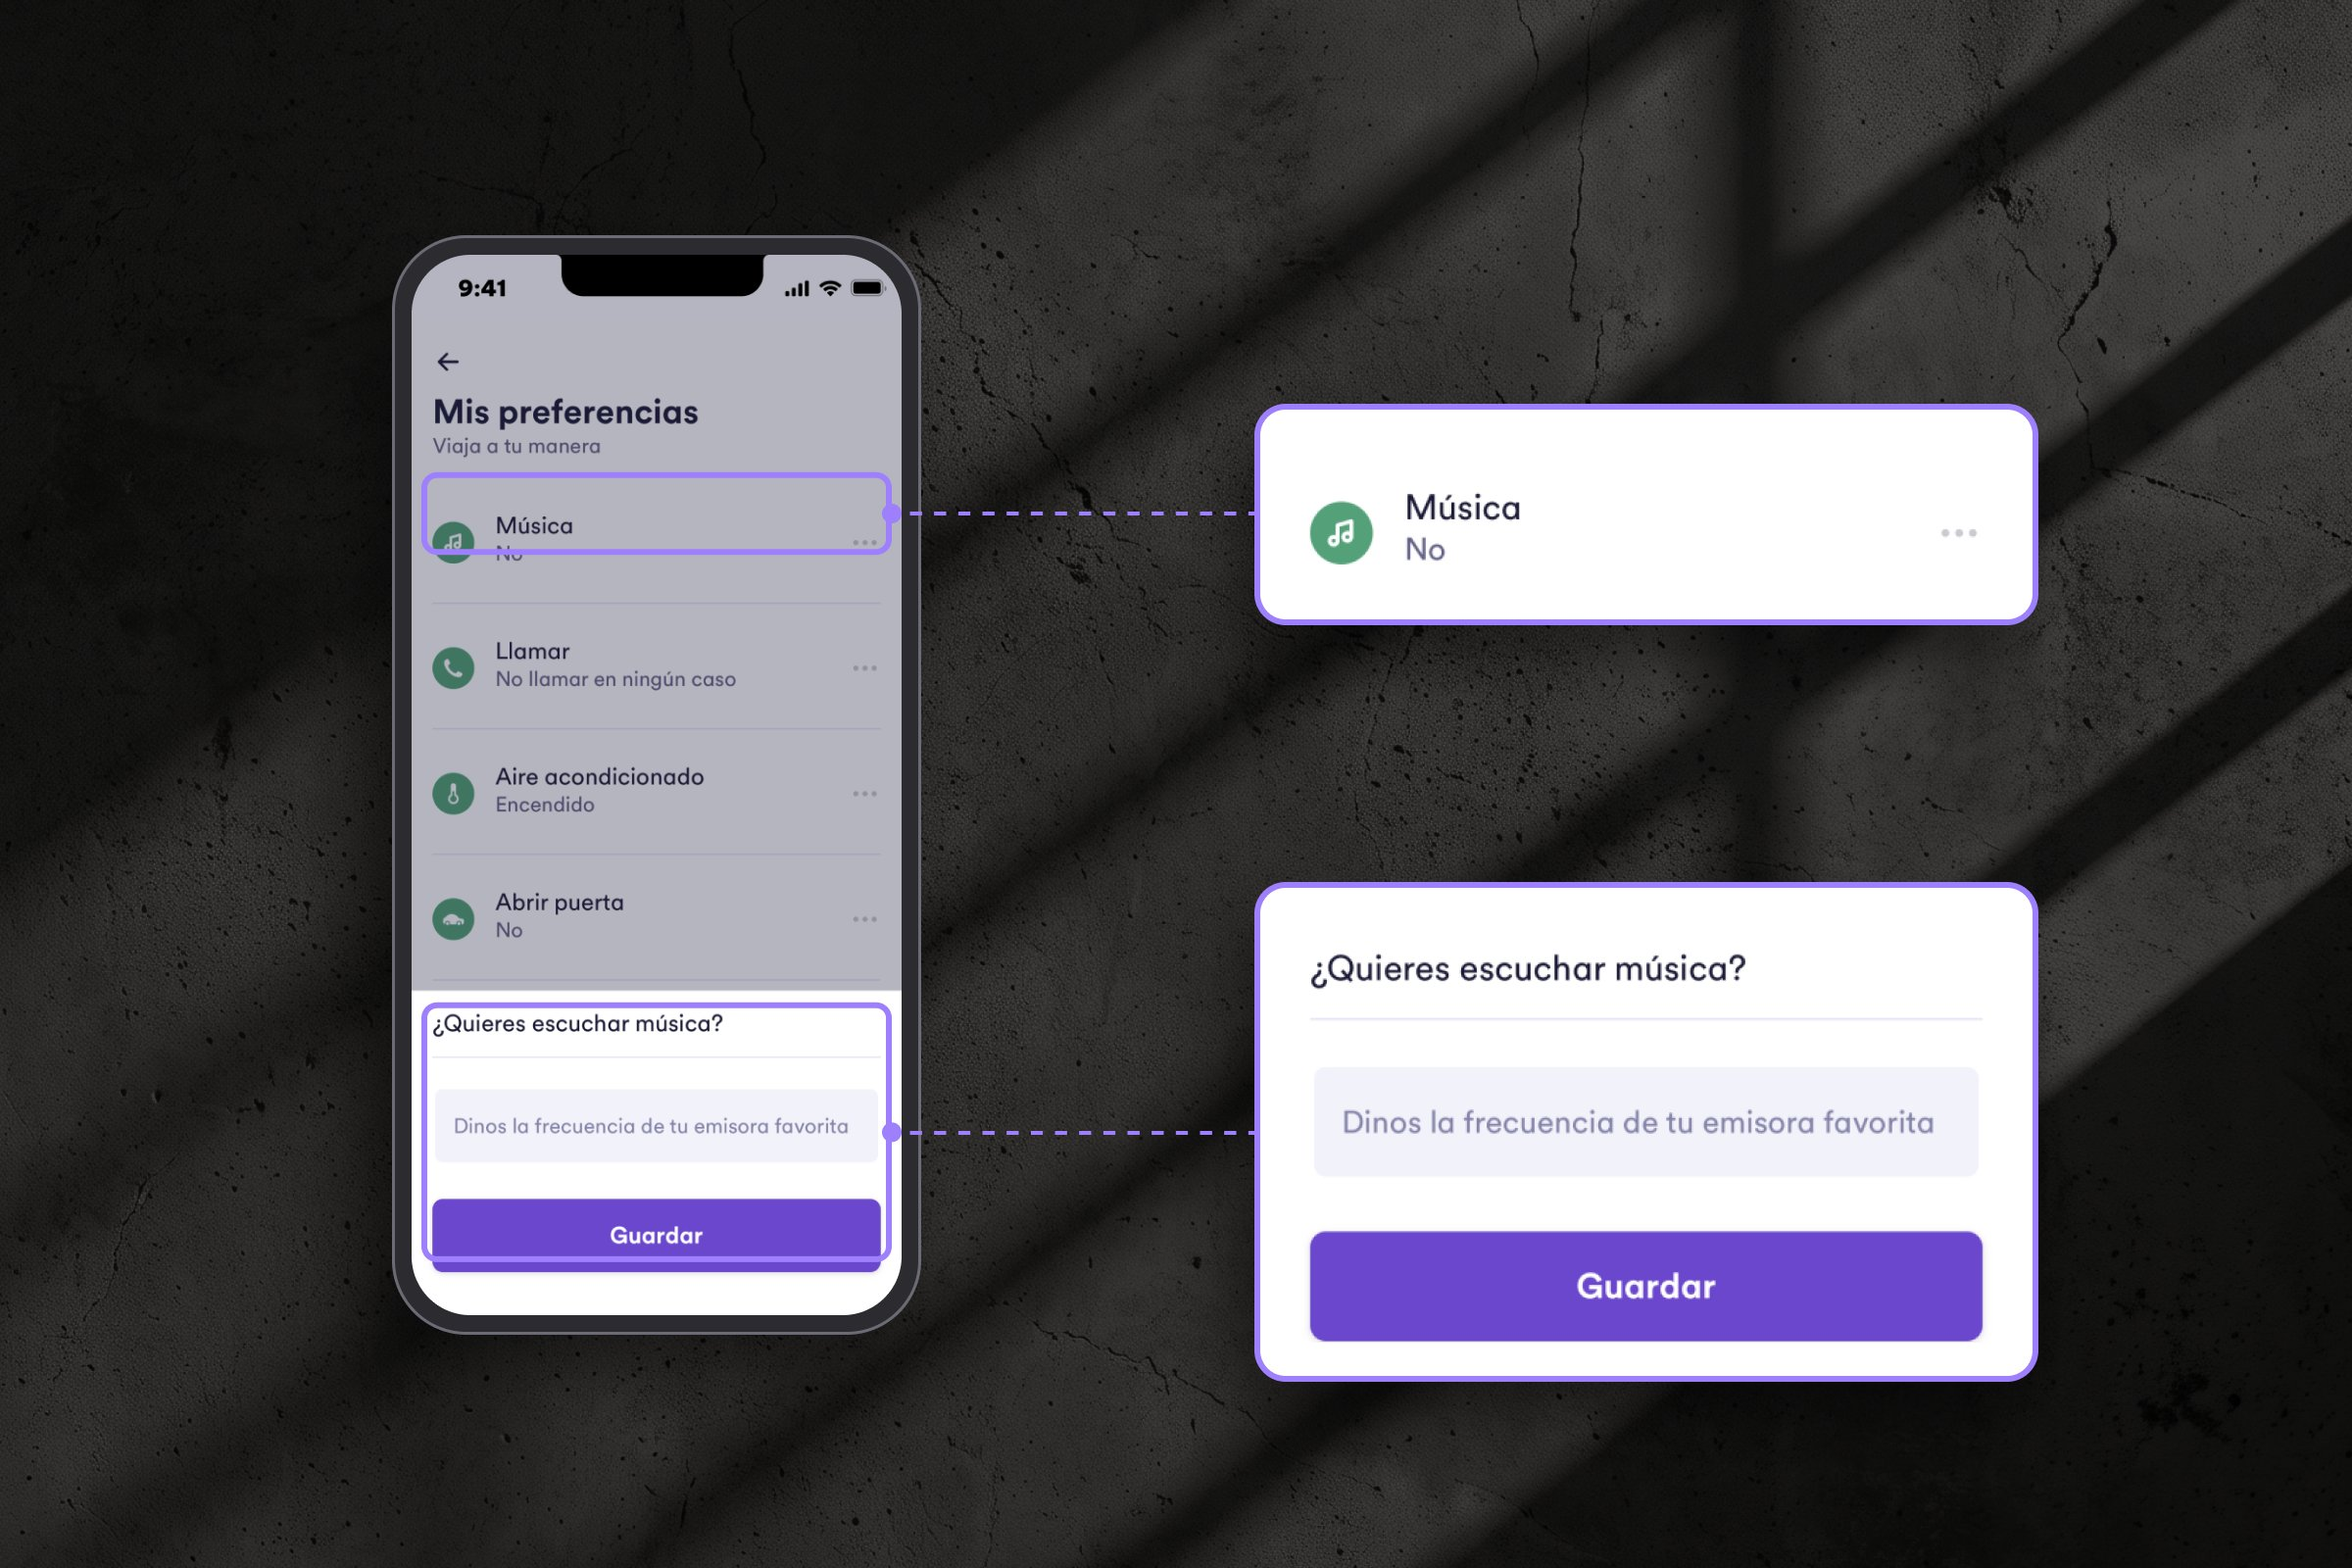
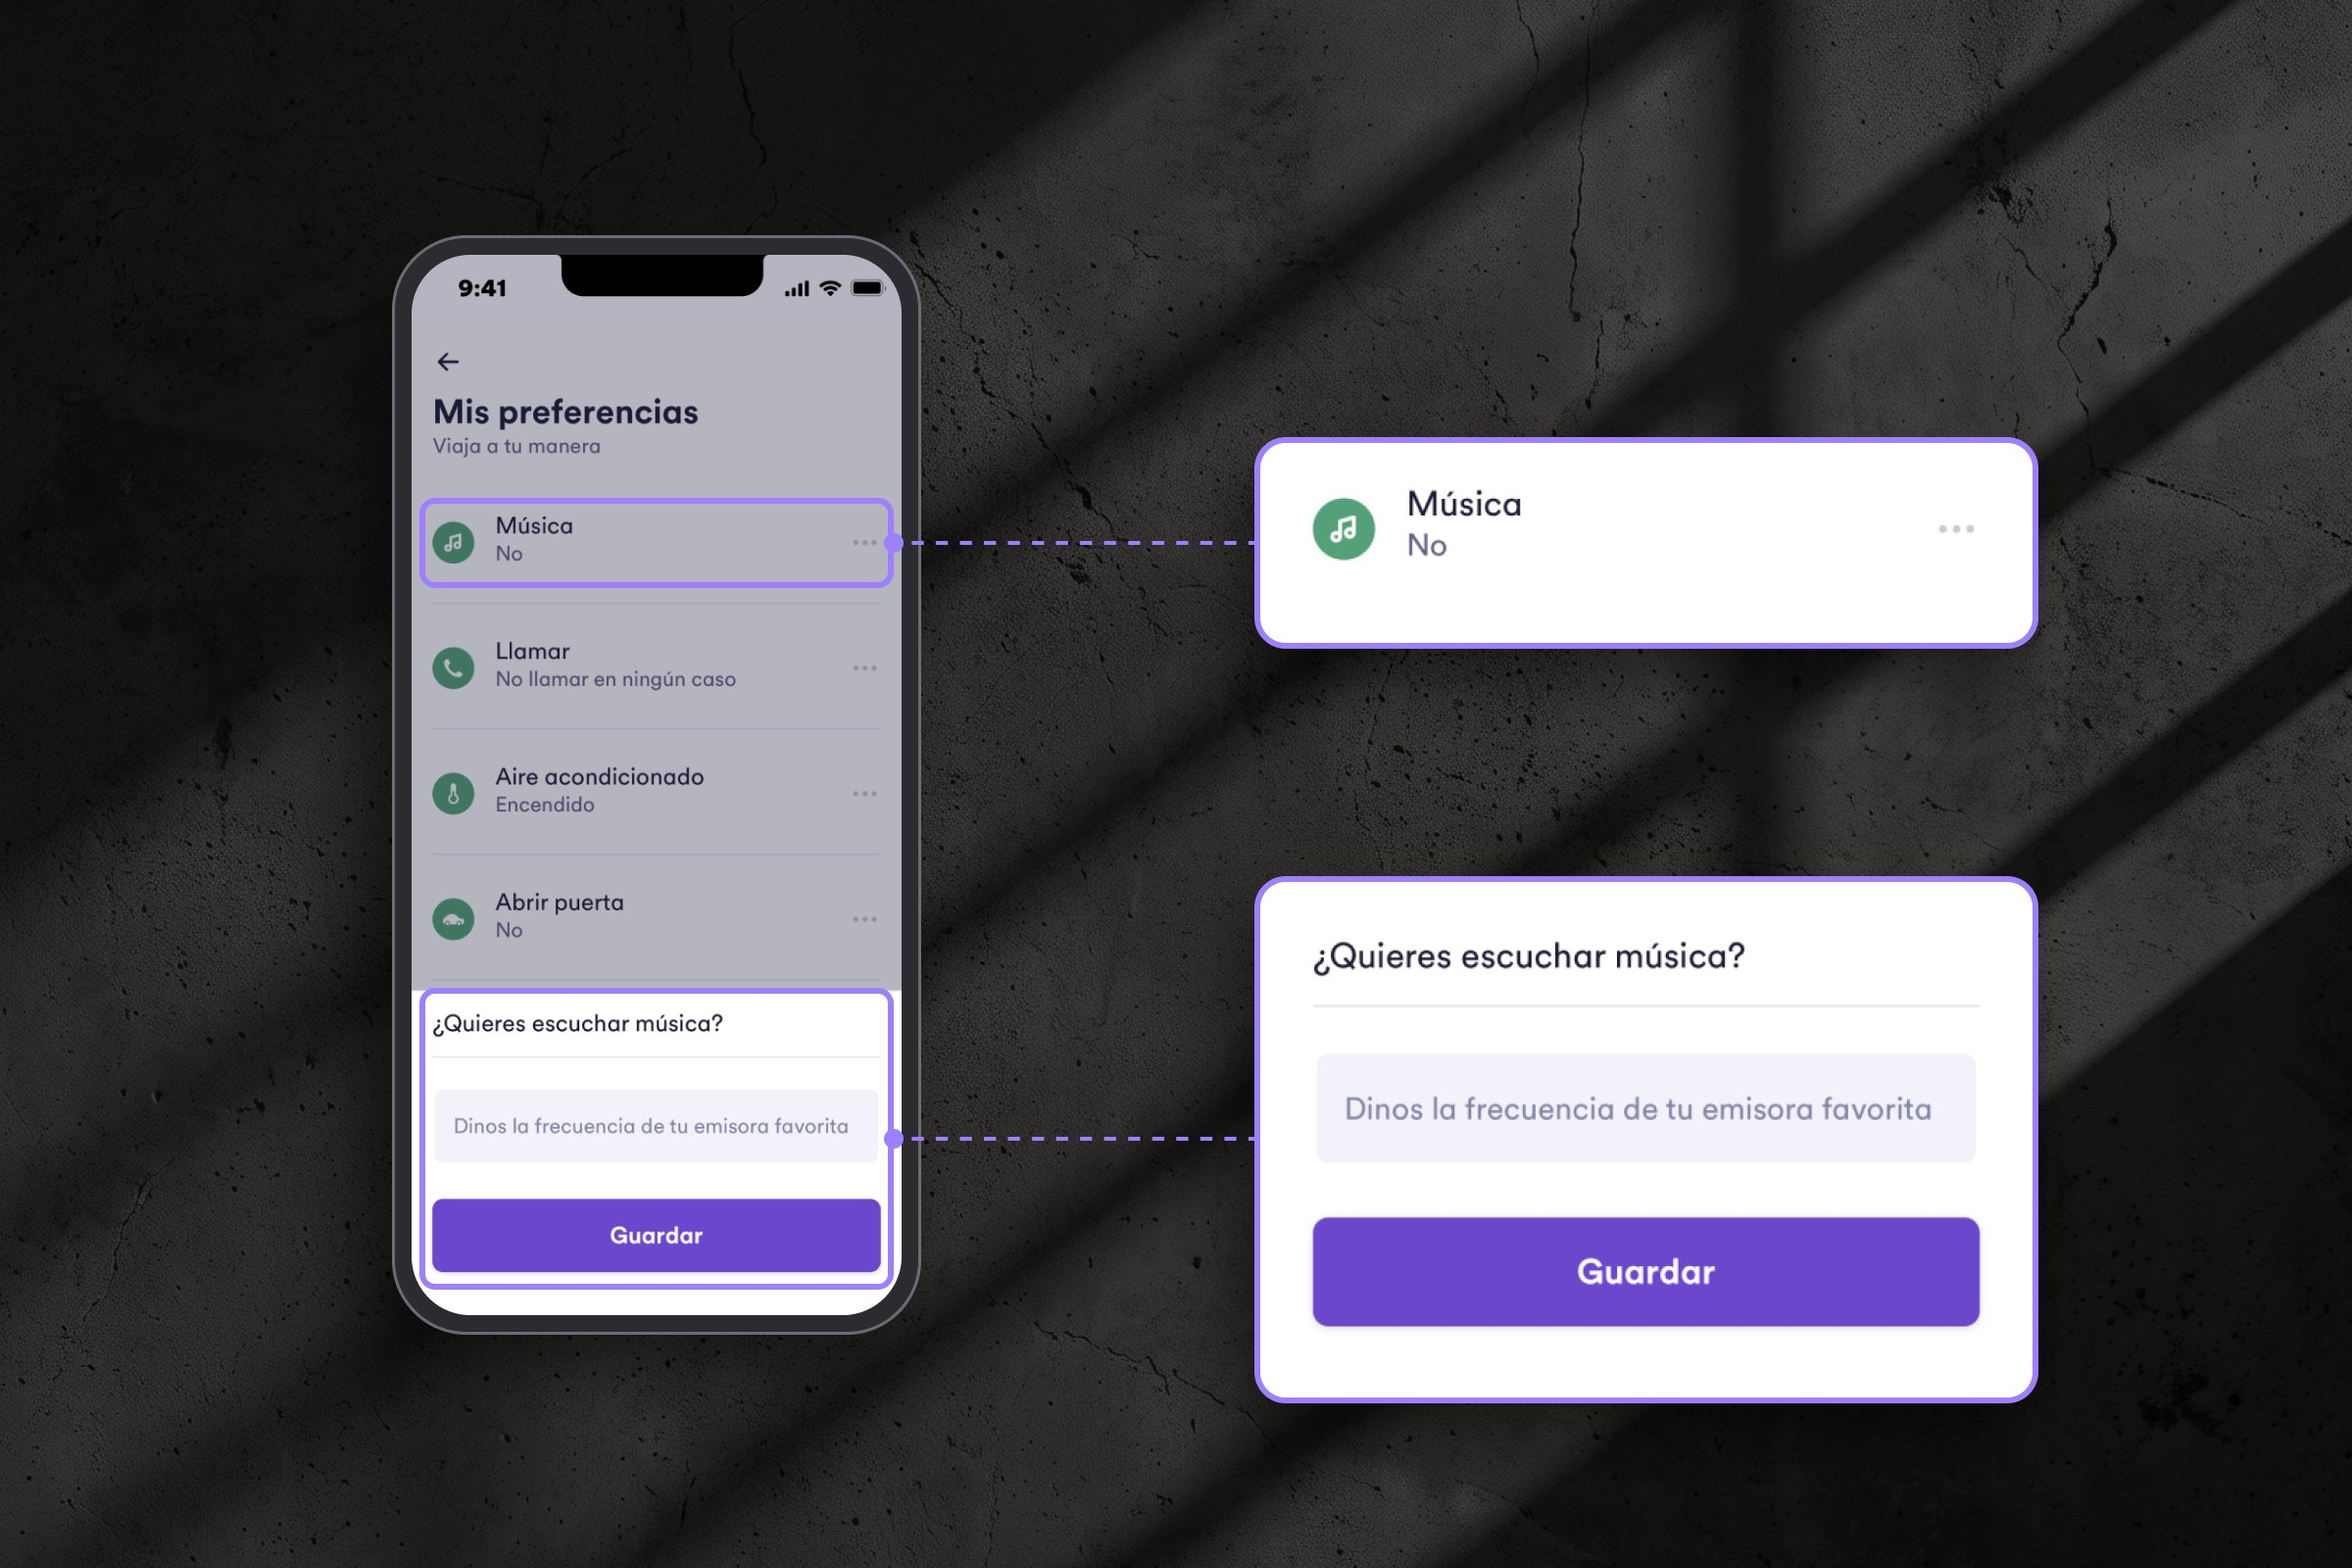
fix: desafío de Cabify más corto, resaltado corregido y link al prototipo

diff --git a/src/data/projects.js b/src/data/projects.js
@@ -413,7 +413,9 @@ export const projects = [
       es: ['Aplicaciones Móviles', 'Design System'],
       en: ['Mobile Apps', 'Design System'],
     },
-    links: {},
+    links: {
+      prototype: 'https://www.figma.com/proto/lau81Ek16dCN8fJmtncGeK/-2023--Cabify---Playlist-del-viaje?node-id=986-269&p=f&scaling=scale-down&content-scaling=fixed&starting-point-node-id=986%3A269&show-proto-sidebar=1&page-id=127%3A18',
+    },
     cardShape: 'square',
     coverImage: cabifyCover,
     year: 2023,
